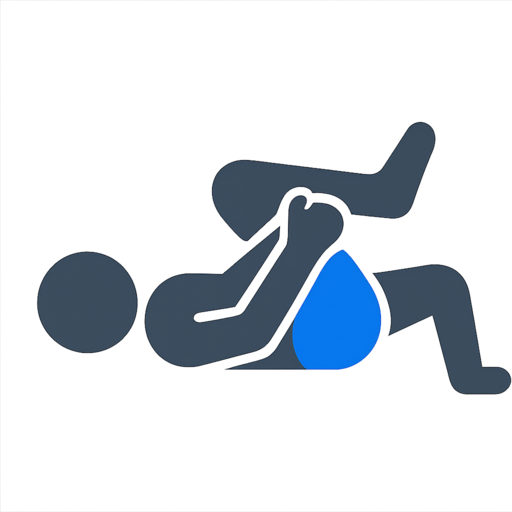
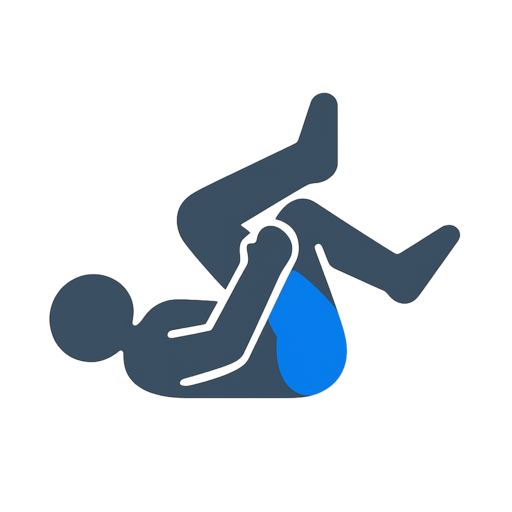
fix: correct piriformis pictograms to a clear figure-4 (ankle on opposite thigh)

Changed region(s): [[0.0625, 0.1562, 1.0, 0.7812]]

diff --git a/scripts/generate-images.ts b/scripts/generate-images.ts
@@ -67,13 +67,13 @@ const poses: Pose[] = [
     slug: '06-piriforme-gauche',
     accent: 'the left gluteal region',
     view: 'side profile',
-    pose: 'lying on the back; the left shin resting horizontally across the right thigh just above the knee (figure-four shape), both hands holding behind the right thigh to draw it gently toward the torso.',
+    pose: 'lying on the back, head down; the right thigh raised toward the chest with the right knee bent and the right foot lifted off the floor; the left ankle crossed and resting on top of the right thigh just above the knee, the bent left knee splayed open out to the side so the two legs clearly form the shape of a number 4; both hands reaching around behind the right thigh to draw it toward the chest.',
   },
   {
     slug: '07-piriforme-droit',
     accent: 'the right gluteal region',
     view: 'side profile',
-    pose: 'lying on the back; the right shin resting horizontally across the left thigh just above the knee (figure-four shape), both hands holding behind the left thigh to draw it gently toward the torso.',
+    pose: 'lying on the back, head down; the left thigh raised toward the chest with the left knee bent and the left foot lifted off the floor; the right ankle crossed and resting on top of the left thigh just above the knee, the bent right knee splayed open out to the side so the two legs clearly form the shape of a number 4; both hands reaching around behind the left thigh to draw it toward the chest.',
   },
   {
     slug: '08-carre-lombes-gauche',